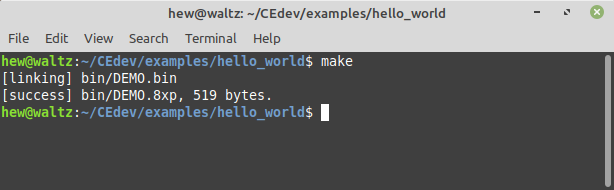
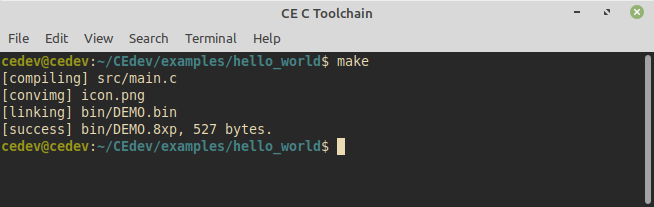
update getting started guide

diff --git a/docs/static/getting-started.rst b/docs/static/getting-started.rst
@@ -3,70 +3,85 @@
 Getting Started
 ===============
 
--------------------------------
- Installing the CE C toolchain
--------------------------------
+Installing the CE C toolchain
+-----------------------------
 
 * Download the file prefixed with your OS type from `here <https://github.com/CE-Programming/toolchain/releases/latest>`_.
-* On Windows, run the executable (.exe) as an administrator.
-* On Linux or macOS:
+* Extract the zip archive to a path **without any spaces in it**.
 
-  * Extract the archive to a path **without spaces** (e.g. /opt/).
-  * Add the environment variables with the install location to either `.bashrc` or `.bash_profile`, using the extracted path:
+**On Windows**
+
+    * Double click :code:`cedev.bat` inside the extracted folder to launch the toolchain environment.
+      You may have to allow the script to be run depending on the user account control.
+    * If you want to avoid using the :code:`cedev.bat` script, you can extend the PATH environment variable to point to the :code:`CEdev/bin` directory.
+      `Here is an example <https://www.architectryan.com/2018/03/17/add-to-the-path-on-windows-10/>`_ of how to do this.
+
+**On Linux or macOS**
+
+    * Extend the PATH environment variable to point to :code:`CEdev/bin` by modifying `.bashrc`, `.zshrc`, or whatever flavor your OS uses.
 
     .. indent with spaces
     .. code-block:: bash
 
-        export CEDEV=/opt/CEdev
-        export PATH=$CEDEV/bin:$PATH
+        export PATH=/<insert custom path here>/CEdev/bin:$PATH
 
 .. note::
 
-    If you have defined/overridden the `CFLAGS` or `LDFLAGS` variables in your shell, you may want to unset those.
+    The toolchain requires the installation folder and any project folders to not contain any spaces.
+    This is a limitation of the :code:`make` command.
 
--------------------
- Building Programs
--------------------
+Building Programs
+-----------------
 
-To build programs with the CE C toolchain, the :code:`make` command/exectuable is used.
-This tutorial will guide you through building your first program.
+Programs are built with the :code:`make` command, executed from a terminal session.
+This tutorial explains how to use the CE C Toolchain to build programs using :code:`make`.
 
-Locate the `CEdev` folder that you installed.
-There should be an `examples` folder which contains multiple projects for you to use for getting familiar with the CE C Toolchain.
-Navigate to the `hello_world` example inside this folder.
-
-Building is done by using a command terminal.
-On Windows, open a command terminal by pressing shift in an empty part of the file explorer and right clicking.
-You will then see an option to `Open command window here`, or `Open Powershell window here`.
-On Linux or macOS, use whatever terminal you are most familiar with.
+Locate the installed `CEdev` folder, and open a terminal by double-clicking on :code:`cedev.bat` on Windows or launching your favorite one on Linux/macOS.
+Navigate to the `examples` folder using the :code:`cd examples` command.
+This folder contains example projects that you can build and modify to learn how to write CE C programs.
+Navigate the to the `hello_world` example inside this folder using the command :code:`cd hello_world`.
 
 Type :code:`make` and press enter.
-The compiler and linker will be executed, and the program (named DEMO.8xp) will be created in the `bin` folder, shown in the below screenshot.
+This command invokes the compiler and creates a file called :code:`bin/DEMO.8xp`, which stores the program's machine code.
 
-.. image:: images/hello_world.png
+The `CEmu <https://ce-programming.github.io/CEmu>`_ emulator can be used to run the program, or you can transfer it to a real calculator using the cross-platform `TI Connect CE <https://education.ti.com/en/us/products/computer_software/connectivity-software/ti-connect-ce-software/tabs/overview>`_.
+
+.. figure:: images/hello_world.png
    :align: center
+   :alt: Building the Hello World example
 
-`CEmu <https://ce-programming.github.io/CEmu>`_ can be used to run the program, or you can transfer it to a real calculator using the cross-platform `TI Connect CE <https://education.ti.com/en/us/products/computer_software/connectivity-software/ti-connect-ce-software/tabs/overview>`_.
+   Building the Hello World example
 
-The following briefly describes the folder structure and files present throughout the toolchain examples:
+Each CE C Toolchain project has the following folder structure:
 
-Folders
---------
+* **src**
 
-* **src**: This is the directory where all of your source files are. Sources are built automatically if they end in a `.c`/`.cpp` extension, and can be edited with any text editor (not Word).
+  * This is the directory where all source files can be placed.
+  * Sources are built automatically if they end in a `.c`/`.cpp` extension, and can be edited with any text editor or IDE.
+  * Subdirectories are allowed as long as they do not contain spaces.
 
-* **bin**: This is where the compiled program will be placed.
+* **obj**
 
-* **obj**: Compiled C/C++ files are placed here, showing the assembly output.
+  * Compiled C/C++ files are placed here, and contain intermediate assembly output.
 
+* **bin**
 
-Files
------
+  * This is where the final linked calculator program will be placed, ending with a `.8xp` extension.
 
-* **icon.png**: This is the 16x16 icon displayed in shells such as `Cesium <https://github.com/mateoconlechuga/cesium/releases/latest>`_.
+* **makefile**
 
-* **makefile**: This file is used by make to build your program. There are options for setting the program name, description, and more.
+  * A text file used by :code:`make` to build the program.
+  * There are options for setting the program name, description, and more.
 
-* **readme.md**: A brief text file that explains what the demo is.
+* **icon.png**
 
-* **autotest.json**: This can be loaded into `CEmu <https://ce-programming.github.io/CEmu>`_'s Autotester to verify the example's correctness.
+  * This is a 16x16 icon that is displayed in shells such as `Cesium <https://github.com/mateoconlechuga/cesium/releases/latest>`_.
+
+* **readme.md**
+
+  * A text file that describes the program's operation.
+
+* **autotest.json**
+
+  * This file can be loaded into `CEmu <https://ce-programming.github.io/CEmu>`_'s Autotester to verify the program's correctness.
+  * It is not required, but it useful for creating testable code.

diff --git a/docs/index.rst b/docs/index.rst
@@ -5,11 +5,11 @@ The CE C Toolchain allows you to create incredible programs using the standard C
 Additionally, the CE C Libraries are used to aid in rapid development by implementing
 optimized routines for graphics, file I/O, fonts, keypad input, and more.
 
+If this is your first introduction to the CE C Toolchain, check out the :ref:`getting_started` page.
+
 The toolchain works natively across all major OSes, and has been developed by a few
 people who find the challenge entertaining. If you are interested in contributing your expertise,
 visit the `GitHub repository <https://github.com/CE-Programming/toolchain>`_.
-
-If this is your first introduction to the CE C Toolchain, start with :ref:`getting_started`.
 
 .. toctree::
     :caption: Overview
